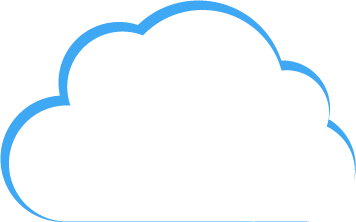
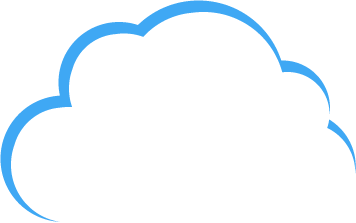
bulding the navigation and fixing the resolution of the image

diff --git a/assets/style.css b/assets/style.css
@@ -3,15 +3,30 @@
 ********************************/
 
 body {
+    font: 14px/20px 'Liberation Sans', 'Helvetica Neue', sans-serif;
     margin: 0
+}
+
+a {
+    outline: none
 }
 
 /*******************************
             Navigation
 ********************************/
-nav.site-nav > ul {
-    margin: 0;
+.site-nav::after {
+    content: "";
+    display: block;
+    clear: both
+}
+
+.nav-logo {
+    margin: 10px
+}
+
+.site-nav > ul {
     float: right;
+    margin: 25px 15px;
     list-style: none
 }
 
@@ -22,17 +37,49 @@ nav.site-nav > ul {
 .site-nav ul li a {
     float: left;
     margin: 0;
-    padding: 0 8px 0 5px
+    padding: 0 8px 0 5px;
+    color: #fff;
+    font-size: 24px;
+    font-weight: 600;
+    text-shadow: 0 0 10px #444;
+    transition: text-shadow .2s ease-in-out;
+    text-decoration: none
+}
+
+.site-nav ul li a:hover {
+    text-shadow: none
+}
+
+.site-nav ul li a::after {
+    content: '';
+    display: block;
+    width: 0;
+    margin-top: 3px;
+    height: 2px;
+    background: #fff;
+    transition: width .3s ease-in-out
+}
+
+.site-nav ul li a:hover::after {
+    width: 100%
+}
+
+.site-nav ul li.active>a::after {
+    width: 100%
+}
+
+.active>a {
+    text-shadow: none !important
 }
 
 /* DropDown */
 .dropbtn {
     display: none;
     float: right;
-    margin: 10px;
+    margin: 15px;
     cursor: pointer;
-    border-bottom: 17px double #669933; 
-    border-top: 6px solid #669933;
+    border-bottom: 17px double #fff; 
+    border-top: 6px solid #fff;
     height: 5px; 
     width: 30px
 }
@@ -62,7 +109,6 @@ nav.site-nav > ul {
     display:block;
 }
 
-
 /* MDROPDOWN-MENU <-----------------------------------@ 590px */
 @media screen and (max-width: 590px) {
     .site-nav ul {
@@ -73,10 +119,15 @@ nav.site-nav > ul {
     }
 }
 
+/*******************************
+        Cloud animation
+********************************/
+.cl-container {
+    max-width: 1170px;
+    clear: both;
+    margin: 0 auto
+}
 
-
-
-/**============== HERO ================**/
 .hero-image {
     background: url(images/hero-bg.gif) no-repeat center top fixed;
     background-size: cover;
@@ -84,30 +135,16 @@ nav.site-nav > ul {
 }
 
 .hero-overlay {
-    background: rgba(7, 133, 242, 0.5)
+    background: rgba(7, 133, 242, 0.6)
 }
 
-.cl-container {
-    max-width: 1170px;
-    margin: 0 auto
-}
 
-.image-frame {
+#image-frame {
     position: relative
 }
 
-.image-frame>div,.image-frame img {
+#image-frame>div,#image-frame img {
     position: absolute
-}
-
-#el1 {
-    top: 230px;
-    right: 105px
-}
-
-#el2 {
-    top: 35px;
-    left: 435px
 }
 
 #cl-up-left {
@@ -144,16 +181,11 @@ nav.site-nav > ul {
     width: 330px
 }
 
-#el9 {
-    top: 200px;
-    left: 30px
-}
-
 /* cloud's nav links*/
 a.cl-link {
     text-decoration: none;
     position: relative;
-    font-size: 40px;
+    font-size: 36px;
     padding: 4px 10px;
     border-radius: 5px;
     border: 2px solid #3fa9f4;
@@ -183,7 +215,7 @@ a.cl-link:hover {
 
 #cl-left a.cl-link {
     top: 105px;
-    left: 126px
+    left: 115px
 }
 
 #cl-up-left a.cl-link {
@@ -192,21 +224,16 @@ a.cl-link:hover {
 }
 /* sail animation */
 .cl-animated {
-    -webkit-animation-duration: 50s;
-    animation-duration: 50s;
+    -webkit-animation-duration: 45s;
+    animation-duration: 45s;
     -webkit-animation-fill-mode: both;
     animation-fill-mode: both;
     -webkit-animation-timing-function: linear;
     animation-timing-function: linear;
-    animation-iteration-count:infinite;
-    -webkit-animation-iteration-count:infinite
+    -webkit-animation-iteration-count: infinite;
+    animation-iteration-count: infinite
 }
 
-@-webkit-keyframes shake {
-    0%, 100% {-webkit-transform: translateX(0)}
-    10%, 30%, 50%, 70%, 90% {-webkit-transform: translateX(-50px)}
-    20%, 40%, 60%, 80% {-webkit-transform: translateX(50px)}
-}
 @keyframes sail {
     0%, 100% {transform: translateX(0)}
     10%, 30%, 50%, 70%, 90% {transform: translateX(-50px)}
@@ -234,7 +261,6 @@ a.cl-link:hover {
         height: 740px
     }
 }
-
 
 /* animation delay */
 .delay05 {

diff --git a/assets/main.js b/assets/main.js
@@ -1,12 +1,68 @@
-//phone menu
+//inactivate the active class on hover -------------------------------------------------------------------
+document.getElementsByTagName('ul')[0].addEventListener('mouseover', function () {
+    'use strict';
+    document.getElementsByClassName('active')[0].className = 'inactive';
+});
+
+//activate the inactive class
+document.getElementsByTagName('ul')[0].addEventListener('mouseout', function () {
+    'use strict';
+    if (document.getElementsByClassName('inactive')[0]) {
+        document.getElementsByClassName('inactive')[0].className = 'active';
+    }
+});
+
+//add active class
+document.getElementsByTagName('ul')[0].addEventListener('click', function (e) {
+    'use strict';
+    //remove the active class if exist
+    if (document.getElementsByClassName('active')) {
+        var i;
+        for (i = 0; i < document.getElementsByClassName('active').length; i = i + 1) {
+            document.getElementsByClassName('active')[i].className = '';
+        }
+    }
+    e.target.parentElement.className = 'active';
+    document.getElementsByClassName('inactive')[0].className = '';
+});
+
+//highlight the nav menu link when the corresponding cloud button is clicked 
+document.getElementById('image-frame').addEventListener('click', function (e) {
+    'use strict';
+    //get the content of the clicked item
+    var text = e.target.innerHTML,
+        //get all links in the navigation
+        links_tg = document.getElementsByClassName('site-nav')[0].getElementsByTagName('a'),
+        i;
+    if (text) {
+        //cheking for match
+        for (i = 0; i < links_tg.length; i = i + 1) {
+            if (text === links_tg[i].innerHTML) {
+                //remove the active class
+                document.getElementsByClassName('active')[0].className = '';
+                links_tg[i].parentElement.className = 'active';
+            }
+        }
+    }
+    e.stopPropagation();
+});
+
+//fixing the background's overlay of the hero -----------------------------------------------------------
+window.addEventListener('resize', function (e) {
+    'use strict';
+    document.getElementsByClassName('hero-overlay')[0].style.minHeight = window.innerHeight + 'px';
+});
+document.getElementsByClassName('hero-overlay')[0].style.minHeight = window.innerHeight + 'px';
+
+//phone menu --------------------------------------------------------------------------------------------
 function drop() {
-    "use strict";
-    document.getElementById("myDropdown").classList.toggle("show");
+    'use strict';
+    document.getElementById('myDropdown').classList.toggle('show');
 }
 window.onclick = function (event) {
-    "use strict";
+    'use strict';
     if (!event.target.matches('.dropbtn')) {
-        var dropdowns = document.getElementsByClassName("dropdown-content"),
+        var dropdowns = document.getElementsByClassName('dropdown-content'),
             openDropdown,
             i;
         for (i = 0; i < dropdowns.length; i = i + 1) {
@@ -17,9 +73,3 @@ window.onclick = function (event) {
         }
     }
 };
-
-window.addEventListener('resize', function (e) {
-    'use strict';
-    document.getElementsByClassName('hero-overlay')[0].style.minHeight = window.innerHeight + 'px';
-});
-document.getElementsByClassName('hero-overlay')[0].style.minHeight = window.innerHeight + 'px';

diff --git a/index.html b/index.html
@@ -12,27 +12,28 @@
        
         <header class="site-header"><!-- Header start-->
             <nav class="site-nav">
-                <ul>
-                    <li><a id="active" href="#">Solutions</a></li>
-                    <li><a href="#">Resources</a></li>
-                    <li><a href="#">Feauteres</a></li>
-                    <li><a href="#">About</a></li>
-                    <li><a href="#">Contacts</a></li>
-                </ul>
+                    <a href="#"><img src="assets/images/white-cloudify.png" class="nav-logo" alt="#"></a>
+                    <ul>
+                        <li><a id="active" href="#">Resources</a></li>
+                        <li class="active"><a href="#">Solutions</a></li>
+                        <li><a href="#">Features</a></li>
+                        <li><a href="#">About</a></li>
+                        <li><a href="#">Contacts</a></li>
+                    </ul>
                     <div onclick="drop()" class="dropbtn"></div>
                     <div id="myDropdown" class="dropdown-content">
-                        <a id="active" href="#">s1</a>
-                        <a href="#">s2</a>
-                        <a href="#">s3</a>
-                        <a href="#">s4</a>
+                        <a id="active" href="#">1Solutions</a>
+                        <a href="#">1Resources</a>
+                        <a href="#">1Features</a>
+                        <a href="#">1About</a>
+                        <a href="#">1Contacts</a>
                     </div>
             </nav>     
         </header>
         
         
                         <div class="cl-container">
-                            <img src="assets/images/hero/sp-logo-white.png" class="mobile-logo" alt="#">
-                            <div class="image-frame">
+                            <div id="image-frame">
                                 <div class="cl-animated sail delay10" id="cl-top">
                                     <img src="assets/images/cl-top.png" alt="">
                                     <a class="cl-link" href="#">Features</a>
@@ -42,7 +43,7 @@
                                     <a class="cl-link" href="#">Solutions</a>
                                 </div>
                                 <div class="cl-animated sail delay20" id="cl-left">
-                                    <img src="assets/images/cl-left.png" alt="">
+                                    <img src="assets/images/cl-left.svg" alt="">
                                     <a class="cl-link" href="#">Resources</a>
                                 </div>
                                 <div class="cl-animated sail delay05" id="cl-up-right">
